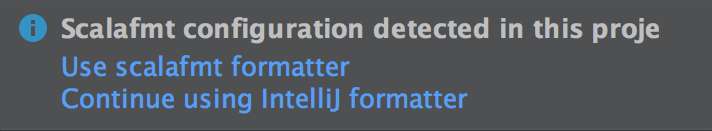
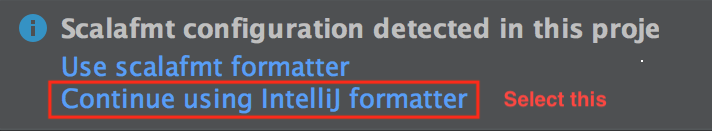
Update docs to clarify installation

Changed region(s): [[0.0618, 0.6107, 0.6798, 0.916], [0.7107, 0.6718, 0.8652, 0.8244]]

diff --git a/docs/installation.md b/docs/installation.md
@@ -7,37 +7,35 @@ You can use Scalafmt from your editor, build tool or terminal.
 
 ## IntelliJ
 
-Scalafmt v1.5.1 comes pre-installed with the IntelliJ Scala plugin. If your
-project has a `.scalafmt.conf` file, then you will be prompted whether to use
-the "scalafmt formatter" or continue using the "IntelliJ formatter":
-
-![IntelliJ scalafmt formatter](assets/img/intellij-install.png)
-
-The built-in support for Scalafmt only supports Scalafmt v1.5.1 at the moment.
-To use a different version of Scalafmt with IntelliJ, install
-[this plugin](https://plugins.jetbrains.com/plugin/8236?pr=). You can install it
-directly from within IntelliJ:
+To install the [Scalafmt IntelliJ plugin](https://plugins.jetbrains.com/plugin/8236?pr=)
 
 - open `Settings > Plugins`
 - open `Browse repositories`
 - search for `scalafmt`
-- restart IntelliJ.
+- click "Install"
+- restart IntelliJ
 
-The default shortcut is `Ctrl + Shift + L`. Undo works, but not redo.
+![Scalafmt IntelliJ Plugin](assets/img/intellij-plugin.png)
 
-The plugin determines which style to use in this order:
+### Format current file
 
-1. `.scalafmt.conf` in the project's root directory, if it exists
-1. `$HOME/.scalafmt.conf`, if it exists
-1. Otherwise, uses `default` style.
+- `Cmd + Shift + L` (macOS)
+- `Ctrl + Shift + L` (other)
 
-For details on how `.scalafmt.conf` should look like, see
-[Configuration](configuration.md). The scalafmt IntelliJ plugin has a "Format on
-save" setting.
+### Format on save
 
-- To enable for current project: `Settings > Tools > Scalafmt`
-- To enable for all future project:
-  `File > Other settings > Default settings > Scalafmt`
+- for the current project (recommended): `Settings > Tools > Scalafmt`
+- for all new project: `File > Other settings > Default settings > Scalafmt`
+
+> Scalafmt comes pre-installed with the IntelliJ Scala plugin, it is **not**
+> recommended to use it. When prompted make sure to select "continue using
+> IntelliJ formatter"
+>
+> ![IntelliJ scalafmt formatter](assets/img/intellij-install.png)
+>
+> The built-in Scalafmt is limited to support v1.5.1 and it enables
+> undesirable behavior such as formatting expanded snippets with a low column
+> width.
 
 ## sbt
 
@@ -50,7 +48,8 @@ addSbtPlugin("com.geirsson" % "sbt-scalafmt" % "1.5.1")
 
 ### Task keys
 
-- `scalafmt`: Format scala sources under the project with scalafmt.
+- `myproject/scalafmt`: Format main sources of `myproject` project
+- `myproject/test:scalafmt`: Format test sources of `myproject` project
 - `scalafmtCli`: Run the scalafmt command line interface.
 - `scalafmtCheck`: Check if the scala sources under the project has been
   formatted.
@@ -58,13 +57,19 @@ addSbtPlugin("com.geirsson" % "sbt-scalafmt" % "1.5.1")
 - `scalafmtSbtCheck`: Check if the files has been formatted by `scalafmtSbt`.
 - `scalafmtOnly`: Format a single given file.
 
-### Setting keys
+### Customize configuration location
 
-- `scalafmtOnCompile: Boolean`: Defines if the sbt-scalafmt should run scalafmt
-  on compile. Default `false`.
 - `scalafmtConfig: Option[File]`: Optional location of `.scalafmt.conf` file. If
   `None` the default config is used. By default, `.scalafmt.conf` file on the
   project root will be used.
+
+### Format on compile
+
+> ⚠ This option is **discouraged**, it is recommended
+> to use "format on save" in the editor instead.
+
+- `scalafmtOnCompile: Boolean`: Defines if the sbt-scalafmt should run scalafmt
+  on compile. Default `false`.
 
 ### Enable IntegrationTest
 
@@ -263,8 +268,11 @@ org.scalafmt.Scalafmt.format("""
 
 Obtain a configuration object with `parseHoconConfig`
 
-```scala mdoc
+```scala mdoc:silent
 val config = org.scalafmt.Scalafmt.parseHoconConfig("align=most").get
+```
+
+```scala mdoc
 org.scalafmt.Scalafmt.format("""
     object Align {
         val x = 1
@@ -275,8 +283,11 @@ org.scalafmt.Scalafmt.format("""
 
 To format code with top-level statements like `*.sbt` files
 
-```scala mdoc
+```scala mdoc:silent
 val configForSbt = org.scalafmt.Scalafmt.configForSbt(config)
+```
+
+```scala mdoc
 org.scalafmt.Scalafmt.format("""
     val x = 1
     val xx = 2

diff --git a/docs/configuration.md b/docs/configuration.md
@@ -589,7 +589,7 @@ import foo.{~>, `symbol`, bar, Random}
 
 ## Vertical Multiline
 
-Since: v1.6.0
+Since: v1.6.0. Note that the IntelliJ built-in support uses Scalafmt v1.5.1.
 
 If enabled this formats methods such that parameters are on their own line
 indented by [`continuationIndent.defnSite`](#continuationindentdefnsite).
